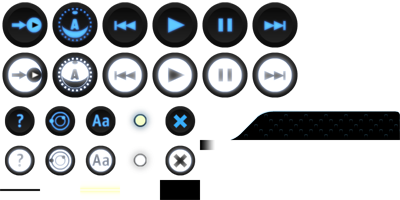
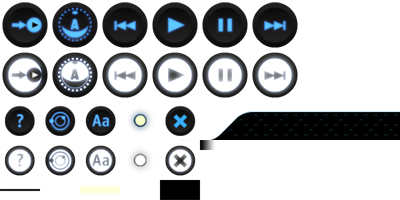
graphical tweaks

Changed region(s): [[0.51, 0.54, 1.0, 0.72], [0.99, 0.63, 1.0, 0.66]]

diff --git a/src/HelpLayer.cpp b/src/HelpLayer.cpp
@@ -48,7 +48,7 @@ void HelpLayer::setInterfaceOrientation( const ci::app::Orientation &orientation
 	
     mPanelRect.x1	= border;
     mPanelRect.x2	= border + panelWidth;
-	mCloseRect		= Rectf( mPanelRect.x2 - 20.0f, mPanelRect.y1 - 20.0f, mPanelRect.x2 + 20.0f, mPanelRect.y1 + 20.0f );
+	mCloseRect		= Rectf( mPanelRect.x2 - 40.0f, mPanelRect.y1, mPanelRect.x2, mPanelRect.y1 + 40.0f );
 	
     // cancel interactions
     mIsCloseTouched = false;
@@ -89,6 +89,7 @@ void HelpLayer::setup( AppCocoaTouch *app )
 	float border			= ( getWindowWidth() - panelWidth ) * 0.5f;
 	
 	mPanelRect				= Rectf( border, border * 2.0f, border + panelWidth, border * 2.0f + panelHeight );
+	// REMEMBER, ACTUALLY SET IN setInterfaceOrientation() ^^ THATTA WAY
 	mCloseRect				= Rectf( mPanelRect.x2 - 35.0f, mPanelRect.y1, mPanelRect.x2, mPanelRect.y1 + 35.0f );
 
     // just do orientation stuff in here:
@@ -97,50 +98,60 @@ void HelpLayer::setup( AppCocoaTouch *app )
  
 bool HelpLayer::touchesBegan( TouchEvent event )
 {
-	Vec2f touchPos = event.getTouches().begin()->getPos();
+	if( G_HELP ){
+		Vec2f touchPos = event.getTouches().begin()->getPos();
 
-    // find where mPanelTabRect is being drawn in screen space (i.e. touchPos space)
-    Rectf closeRect = transformRect( mCloseRect, mOrientationMtx);
-
-    mIsCloseTouched = closeRect.contains( touchPos );
+		// find where mPanelTabRect is being drawn in screen space (i.e. touchPos space)
+		Rectf closeRect = transformRect( mCloseRect, mOrientationMtx );
+		Rectf panelRect	= transformRect( mPanelRect, mOrientationMtx );
 		
-	return mIsCloseTouched;
+		mIsCloseTouched = closeRect.contains( touchPos );
+		if( !mIsCloseTouched ) mIsCloseTouched = !panelRect.contains( touchPos );
+			
+		return mIsCloseTouched;
+	}
+	return false;
 }
 
 bool HelpLayer::touchesMoved( TouchEvent event )
 {
-	Vec2f touchPos = event.getTouches().begin()->getPos();
-    
-	if( mIsCloseTouched ){
-        // find where mPanelTabRect is being drawn in screen space (i.e. touchPos space)
-		Rectf closeRect = transformRect( mCloseRect, mOrientationMtx);
-        
-        // apply the touch pos and offset in screen space
-        Vec2f newPos = touchPos;
-        closeRect.offset(newPos - closeRect.getUpperLeft());
+	if( G_HELP ){
+		Vec2f touchPos = event.getTouches().begin()->getPos();
+		
+		if( mIsCloseTouched ){
+			// find where mPanelTabRect is being drawn in screen space (i.e. touchPos space)
+			Rectf closeRect = transformRect( mCloseRect, mOrientationMtx);
+			
+			// apply the touch pos and offset in screen space
+			Vec2f newPos = touchPos;
+			closeRect.offset(newPos - closeRect.getUpperLeft());
 
-        // pull the screen-space rect back into mPanelTabRect space
-        Rectf tabRect = transformRect( closeRect, mOrientationMtx.inverted() );
+			// pull the screen-space rect back into mPanelTabRect space
+			// TODO: IS THIS A RELIC? SAFE TO DELETE?
+			// Rectf tabRect = transformRect( closeRect, mOrientationMtx.inverted() );
+		}
+
+		return mIsCloseTouched;
 	}
 
-	return mIsCloseTouched;
+	return false;
 }
 
 bool HelpLayer::touchesEnded( TouchEvent event )
 {
-	vector<TouchEvent::Touch> touches = event.getTouches();
-	
-	Vec2f pos = touches.begin()->getPos();
-	pos = (mOrientationMtx.inverted() * Vec3f(pos,0)).xy();
-	
-	if( mIsCloseTouched ){
-        mCallbacksHelpButtonPressed.call( this );
-		mIsCloseTouched = false;
-    } else {
-		Rectf mailButton( mPanelRect.x1 + 147.0f, mPanelRect.y1 + 226.0f, mPanelRect.x1 + 246.0f, mPanelRect.y1 + 253.0f );
-		Rectf cinderButton( mPanelRect.x1 + 133.0f, mPanelRect.y1 + 315.0f, mPanelRect.x1 + 265.0f, mPanelRect.y1 + 336.0f );
+	if( G_HELP ){
+		vector<TouchEvent::Touch> touches = event.getTouches();
 		
-		if( G_HELP ){
+		Vec2f pos = touches.begin()->getPos();
+		pos = (mOrientationMtx.inverted() * Vec3f(pos,0)).xy();
+		
+		if( mIsCloseTouched ){
+			mCallbacksHelpButtonPressed.call( this );
+			mIsCloseTouched = false;
+		} else {
+			Rectf mailButton( mPanelRect.x1 + 147.0f, mPanelRect.y1 + 226.0f, mPanelRect.x1 + 246.0f, mPanelRect.y1 + 253.0f );
+			Rectf cinderButton( mPanelRect.x1 + 133.0f, mPanelRect.y1 + 315.0f, mPanelRect.x1 + 265.0f, mPanelRect.y1 + 336.0f );
+			
 			if( mailButton.contains( pos ) ){
 				Url mailtoLink( "mailto:planetary@bloom.io?subject=Planetary feedback" );
 				launchWebBrowser( mailtoLink );
@@ -149,8 +160,8 @@ bool HelpLayer::touchesEnded( TouchEvent event )
 				launchWebBrowser( cinderWebsite );
 			}
 		}
-	}
     
+	}
 	return false;
 }
 

diff --git a/src/UiLayer.cpp b/src/UiLayer.cpp
@@ -196,7 +196,7 @@ void UiLayer::update()
     mPanelRect.y2 = mPanelRect.y1 + mPanelHeight;
 	
     // adjust tab rect:
-    mPanelTabRect = Rectf( mPanelRect.x2 - 200.0f, mPanelRect.y1 - 49.0f,
+    mPanelTabRect = Rectf( mPanelRect.x2 - 200.0f, mPanelRect.y1 - 48.0f,
                            mPanelRect.x2, mPanelRect.y1 + 2.0f );
 }
 
@@ -221,10 +221,10 @@ void UiLayer::draw( const gl::Texture &uiButtonsTex )
 	
     if( mIsPanelTabTouched ){
 		v1 = 0.5f;
-		v2 = 0.69f;	// HA MGUNK!!!
+		v2 = 0.7f;	// HA MGUNK!!!
     } else {
 		v1 = 0.5f;
-		v2 = 0.69f;
+		v2 = 0.7f;
 	}
 	uiButtonsTex.enableAndBind();
 	drawButton( mPanelTabRect, u1, v1, u2, v2 );

diff --git a/src/Node.cpp b/src/Node.cpp
@@ -254,12 +254,6 @@ void Node::drawName( const CameraPersp &cam, float pinchAlphaPer, float angle )
 		glDisable( GL_TEXTURE_2D );
 		gl::color( ColorA( COLOR_BLUE, 0.4f * mZoomPer * pinchAlphaPer ) );
 		gl::drawLine( pos1, pos2 );
-		
-		// draw hit areas
-		/*if( !mIsSelected ){
-			gl::drawSolidRect( mHitArea );
-			gl::drawSolidRect( mSphereHitArea );
-		}*/
 	}
 	
 	for( vector<Node*>::iterator nodeIt = mChildNodes.begin(); nodeIt != mChildNodes.end(); ++nodeIt ){

diff --git a/src/KeplerApp.cpp b/src/KeplerApp.cpp
@@ -550,7 +550,7 @@ bool KeplerApp::onPinchMoved( PinchEvent event )
 	//mCamDistPinchOffsetDest = constrain( mCamDistPinchOffsetDest, 0.35f, 3.5f );
 	
 	if( currentLevel <= G_ALPHA_LEVEL ){
-		mFovDest += ( 1.0f - event.getScaleDelta() ) * 100.0f;
+		mFovDest += ( 1.0f - event.getScaleDelta() ) * 150.0f;
 		
 	} else {
 		mCamDistPinchOffsetDest *= ( 1.0f - event.getScaleDelta() ) * 3.5f + 1.0f;

diff --git a/include/Globals.h b/include/Globals.h
@@ -31,7 +31,7 @@ static const int G_NUM_CLOUD_TYPES	= 4;
 
 static const float G_MIN_FOV		= 55.0f;
 static const float G_DEFAULT_FOV	= 60.0f;
-static const float G_MAX_FOV		= 120.0f;
+static const float G_MAX_FOV		= 110.0f;
 
 static const float G_DEFAULT_ARCBALL_RADIUS	= 500.0f;
 
